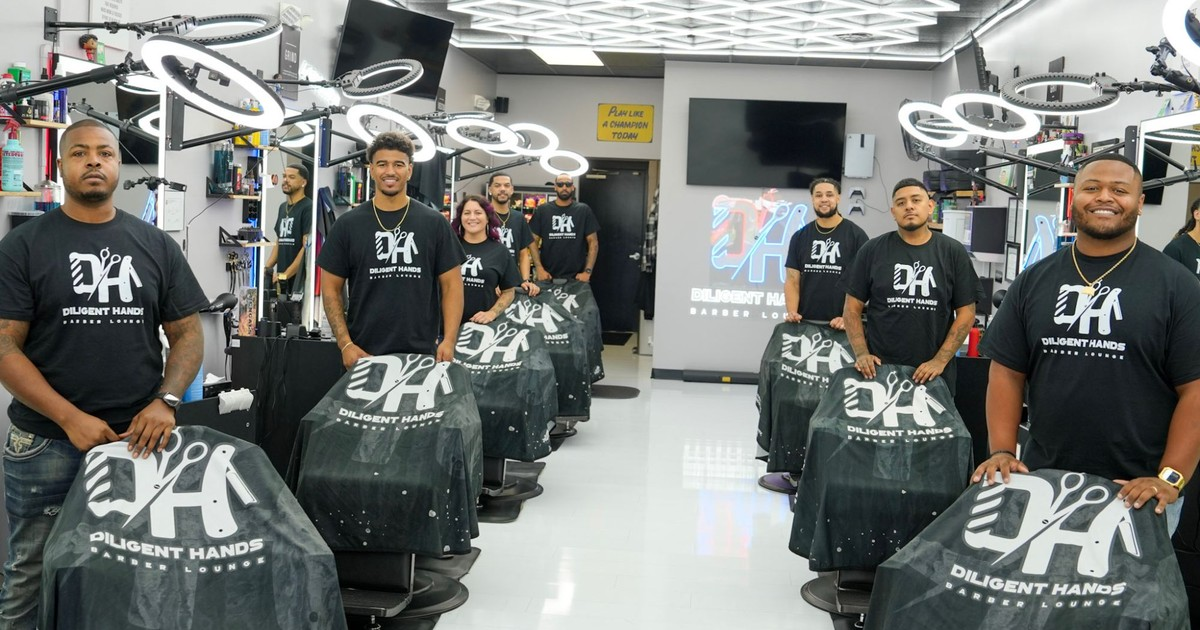
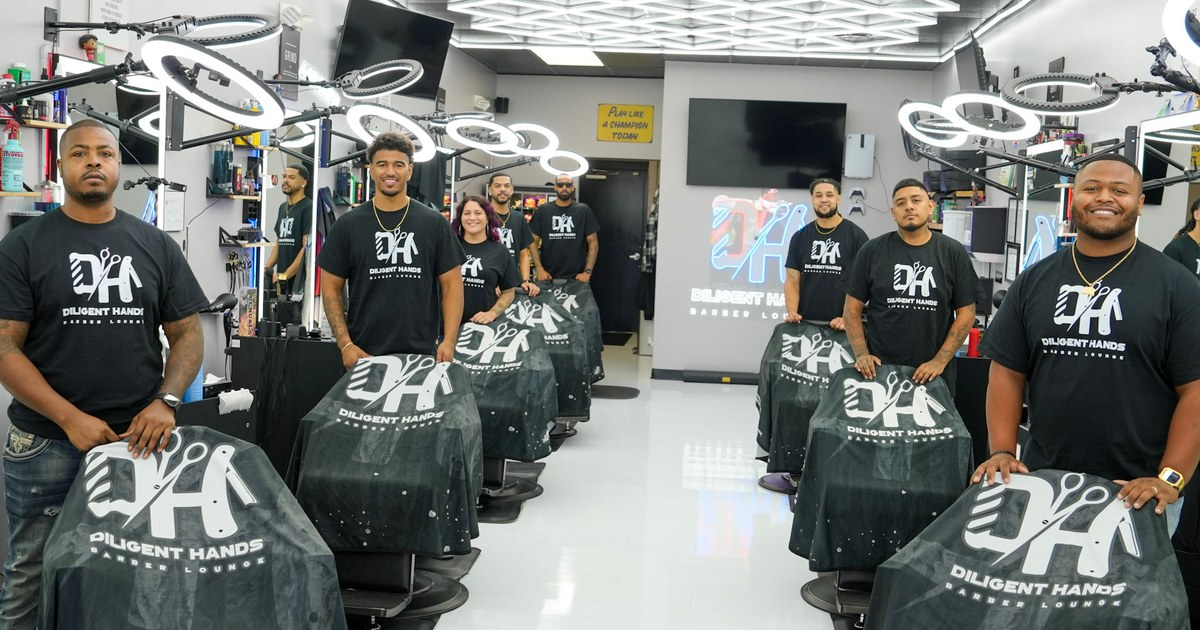
Add Tyrone, refresh all team headshots, update homepage group photo
Per the Oct 4 handoff list from Groovy.

Team:
- Add Tyrone (Master Barber) to the team page and homepage roster,
  with his four portfolio photos as his Recent Work gallery.
- Swap in the new studio headshots for all eight team members,
  including Scotty's replacement photo.
- Update Groovy's title to Owner / Master Barber.

Homepage:
- Replace the hero group photo with the supplied master
  ("Team behind chairs"), and regenerate the mobile crop and the
  1200x630 link-preview image from it.
- BrandStory built each headshot URL from the member's name
  (/images/New Photos/{name}.png), so new photos never appeared
  there and Tyrone fell through to a stock barber-chair image.
  Members now carry an explicit image path, as on the team page.

Images were resized and recompressed for web: 11.3 MB of originals
down to 1.4 MB.

diff --git a/components/TeamPage.tsx b/components/TeamPage.tsx
@@ -6,8 +6,8 @@ import ImageLightbox from './ImageLightbox';
 const teamMembers = [
   {
     name: "Groovy",
-    role: "Master Barber",
-    image: "/images/New Photos/Groovy.png",
+    role: "Owner / Master Barber",
+    image: "/images/team/groovy.jpg",
     cuts: [
       "Groovy New cut images/IMG_3609.JPG",
       "Groovy New cut images/IMG_3610.JPG",
@@ -24,7 +24,7 @@ const teamMembers = [
   {
     name: "Larmont",
     role: "Master Barber",
-    image: "/images/New Photos/Larmont.png",
+    image: "/images/team/larmont.jpg",
     cuts: [
       "Larmont Cuts 2026-01-11 at 4.57.59\u202FPM.png",
       "Larmont Cuts 2026-01-11 at 4.58.09\u202FPM.png",
@@ -40,7 +40,7 @@ const teamMembers = [
   {
     name: "Saul",
     role: "Master Barber",
-    image: "/images/New Photos/Saul.png",
+    image: "/images/team/saul.jpg",
     cuts: [
       "Saul Cuts 2026-01-11 at 5.02.09\u202FPM.png",
       "Saul Cuts 2026-01-11 at 5.02.22\u202FPM.png",
@@ -56,7 +56,7 @@ const teamMembers = [
   {
     name: "Norie",
     role: "Master Barber",
-    image: "/images/New Photos/Norie.png",
+    image: "/images/team/norie.jpg",
     cuts: [
       "Norie Cuts 2026-01-11 at 5.05.18\u202FPM.png",
       "Norie Cuts 2026-01-11 at 5.05.26\u202FPM.png",
@@ -71,7 +71,7 @@ const teamMembers = [
   {
     name: "Ace",
     role: "Master Barber/SMP Artist",
-    image: "/images/New Photos/Ace.png",
+    image: "/images/team/ace.jpg",
     cuts: [
       "Ace Cuts 2026-01-11 at 5.08.36\u202FPM.png",
       "Ace Cuts 2026-01-11 at 5.08.46\u202FPM.png",
@@ -87,7 +87,7 @@ const teamMembers = [
   {
     name: "Alyssa",
     role: "Master Barber/Cosmetologist",
-    image: "/images/New Photos/Alyssa.png",
+    image: "/images/team/alyssa.jpg",
     cuts: [
       "Alyssa/IMG_8484.png",
       "Alyssa/IMG_8510.png",
@@ -99,7 +99,7 @@ const teamMembers = [
   {
     name: "Scotty",
     role: "Master Barber",
-    image: "/images/New Photos/Scotty.png",
+    image: "/images/team/scotty.jpg",
     cuts: [
       "Scotty/IMG_4492.png",
       "Scotty/IMG_4497.png",
@@ -108,6 +108,17 @@ const teamMembers = [
       "Scotty/IMG_4528.png",
       "Scotty/IMG_4550.png",
       "Scotty/IMG_4559.png"
+    ]
+  },
+  {
+    name: "Tyrone",
+    role: "Master Barber",
+    image: "/images/team/tyrone.jpg",
+    cuts: [
+      "team/tyrone/work-1.jpg",
+      "team/tyrone/work-2.jpg",
+      "team/tyrone/work-3.jpg",
+      "team/tyrone/work-4.jpg"
     ]
   }
 ];

diff --git a/components/BrandStory.tsx b/components/BrandStory.tsx
@@ -25,13 +25,14 @@ const marqueeImages = [
 const allMarqueeImages = [...marqueeImages, ...marqueeImages];
 
 const teamMembers = [
-  { name: "Groovy", role: "Master Barber" },
-  { name: "Larmont", role: "Master Barber" },
-  { name: "Saul", role: "Master Barber" },
-  { name: "Norie", role: "Master Barber" },
-  { name: "Ace", role: "Master Barber/SMP Artist" },
-  { name: "Alyssa", role: "Master Barber/Cosmetologist" },
-  { name: "Scotty", role: "Master Barber" }
+  { name: "Groovy", role: "Owner / Master Barber", image: "/images/team/groovy.jpg" },
+  { name: "Larmont", role: "Master Barber", image: "/images/team/larmont.jpg" },
+  { name: "Saul", role: "Master Barber", image: "/images/team/saul.jpg" },
+  { name: "Norie", role: "Master Barber", image: "/images/team/norie.jpg" },
+  { name: "Ace", role: "Master Barber/SMP Artist", image: "/images/team/ace.jpg" },
+  { name: "Alyssa", role: "Master Barber/Cosmetologist", image: "/images/team/alyssa.jpg" },
+  { name: "Scotty", role: "Master Barber", image: "/images/team/scotty.jpg" },
+  { name: "Tyrone", role: "Master Barber", image: "/images/team/tyrone.jpg" }
 ];
 
 const BrandStory: React.FC = () => {
@@ -87,11 +88,11 @@ const BrandStory: React.FC = () => {
             <div
               key={member.name}
               className="group relative cursor-pointer"
-              onClick={() => openLightbox([`/images/New Photos/${member.name}.png`], 0)}
+              onClick={() => openLightbox([member.image], 0)}
             >
               <div className="aspect-[4/5] bg-neutral-900 overflow-hidden relative mb-4">
                 <img 
-                  src={`/images/New Photos/${member.name}.png`} 
+                  src={member.image} 
                   alt={member.name}
                   className="w-full h-full object-cover grayscale transition-all duration-500 group-hover:grayscale-0 group-hover:scale-105"
                   onError={(e) => {
